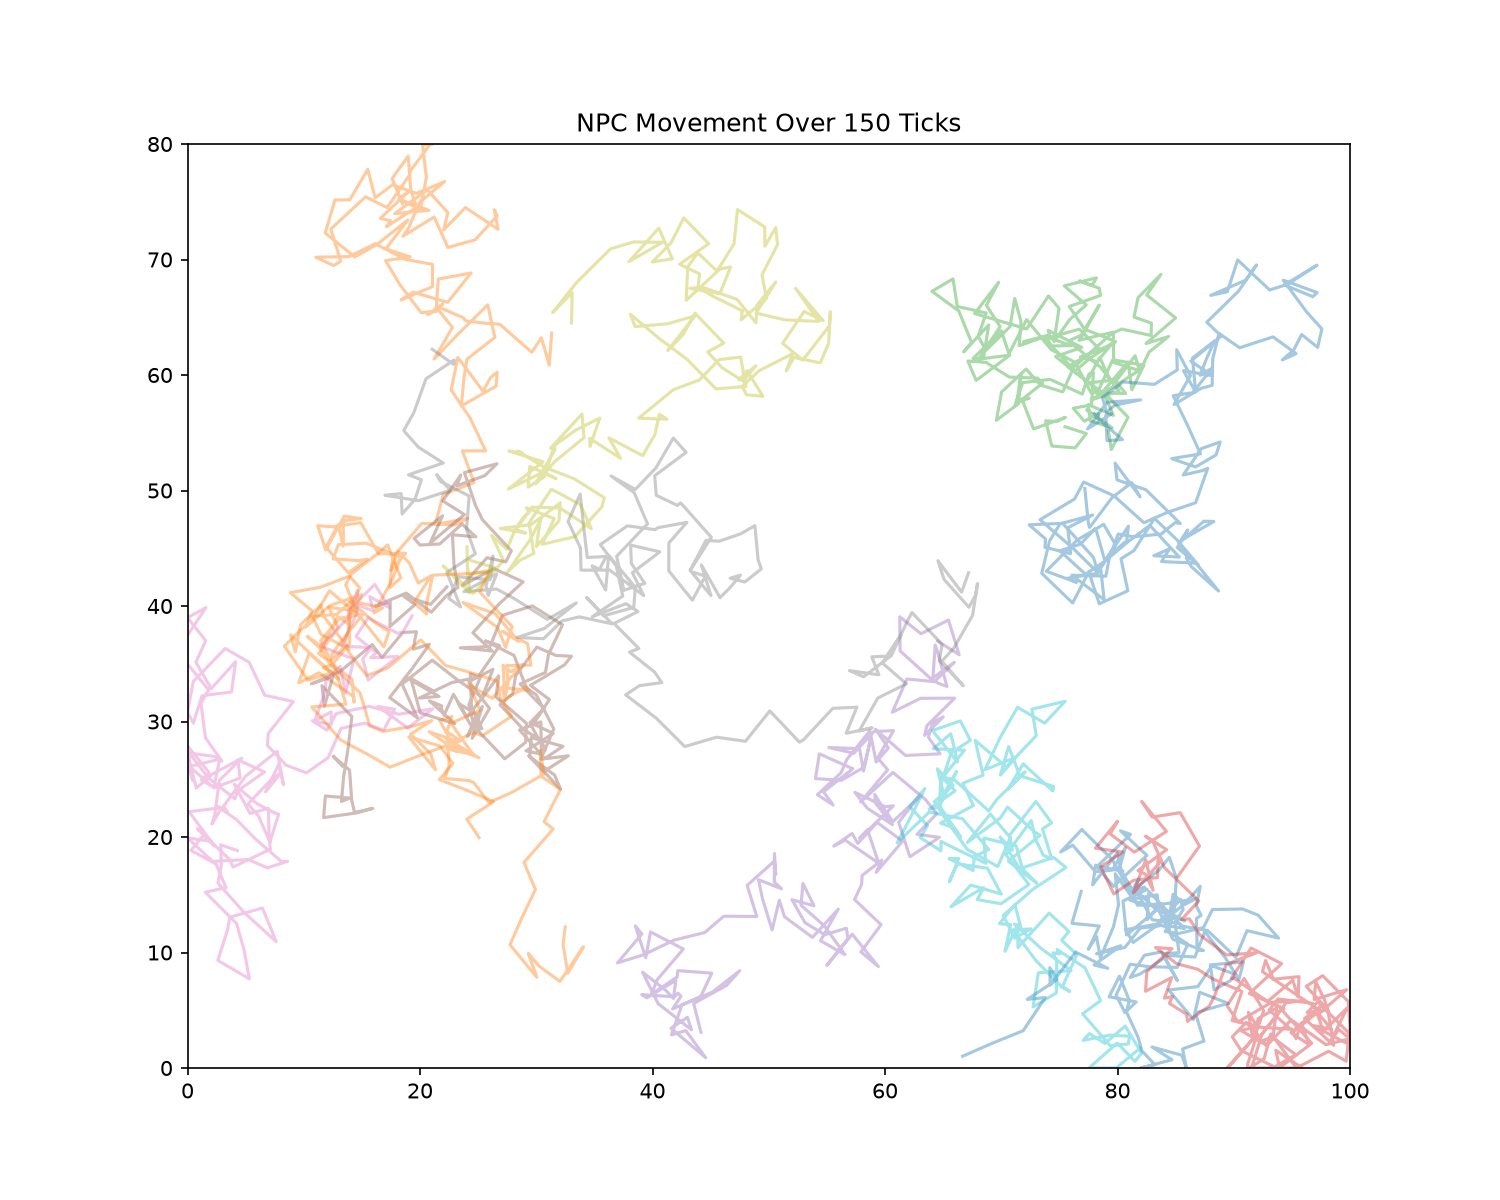
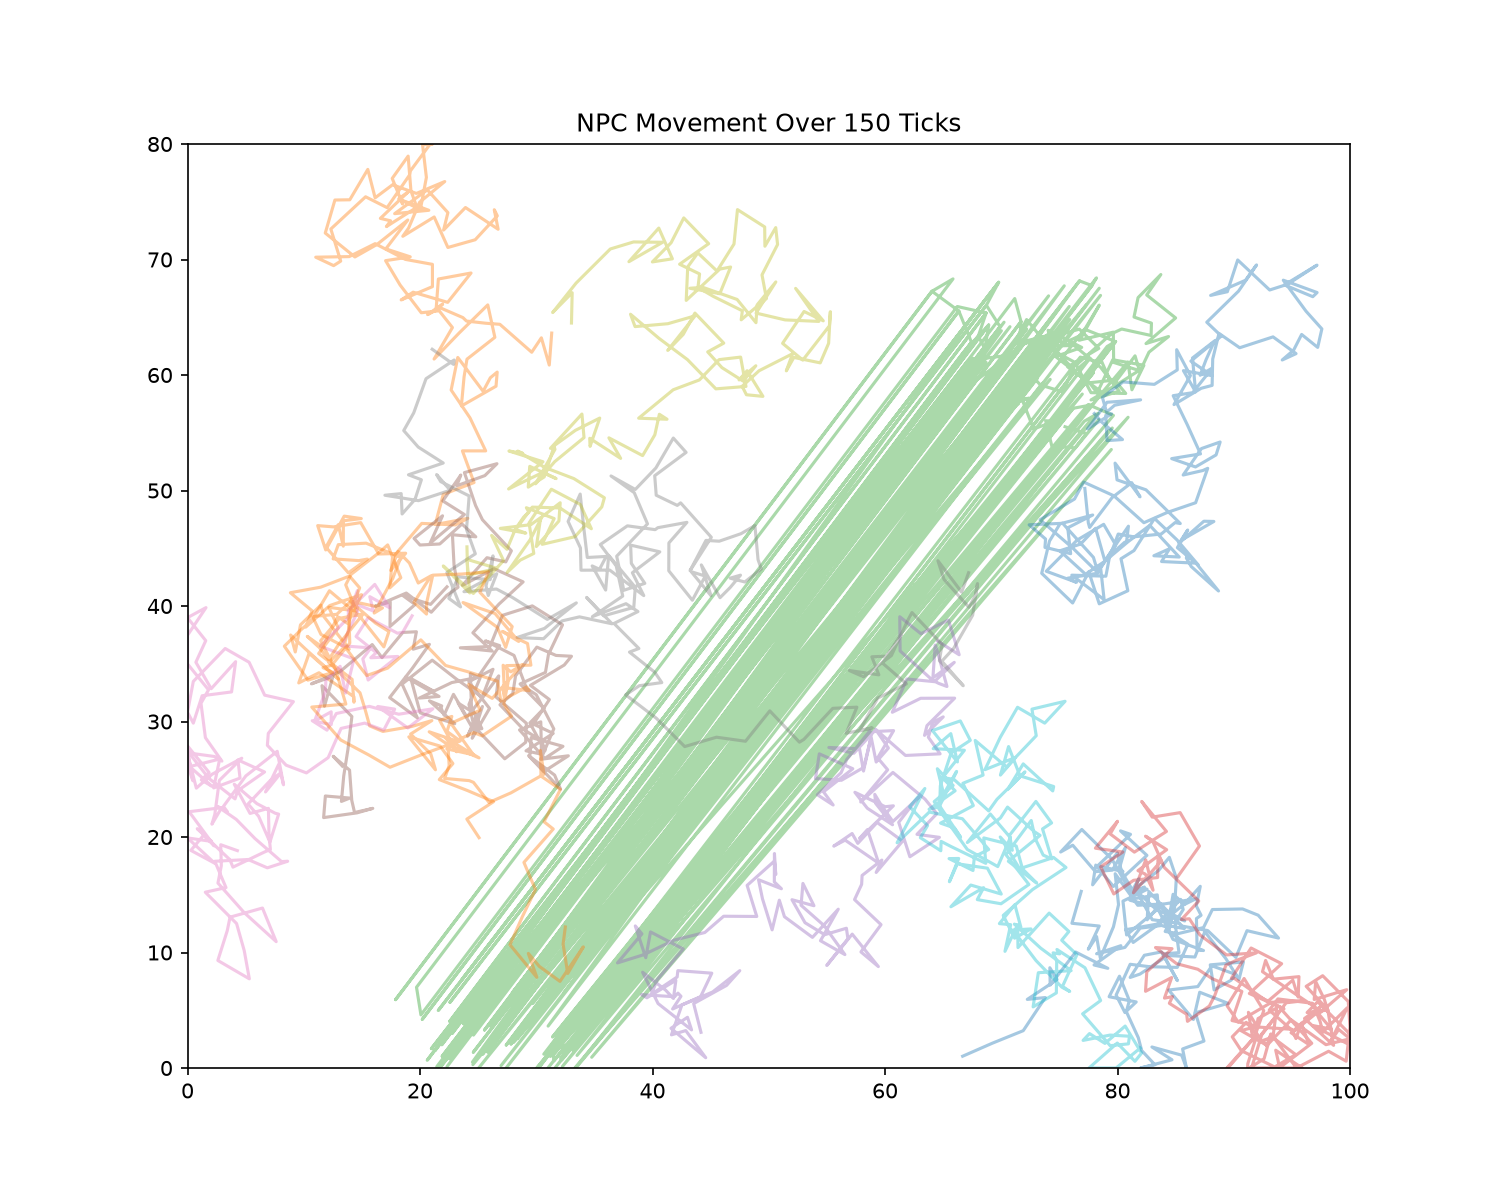
Update: Replaced Plain Random Walk With Four Named Zones

Changed region(s): [[0.276, 0.2158, 0.7667, 0.8942]]

diff --git a/src/models.py b/src/models.py
@@ -1,14 +1,47 @@
 NPC_IDS = [f"NPC_{i:02d}" for i in range(1, 13)]
-ACTIVITIES = ["patrolling", "idle", "trading", "fighting", "fleeing"]
+NPC_NAMES = {
+    "NPC_01": "Aldric", "NPC_02": "Brenna", "NPC_03": "Cedric", "NPC_04": "Dara",
+    "NPC_05": "Elowen", "NPC_06": "Fenn", "NPC_07": "Garrick", "NPC_08": "Hilda",
+    "NPC_09": "Ivor", "NPC_10": "Jora", "NPC_11": "Kael", "NPC_12": "Lyra",
+}
 
-WORLD_X = (0, 100)
-WORLD_Y = (0, 80)
-NUM_TICKS = 150
-ACTIVITY_CHANGE_CHANCE = 0.08
+WORLD_W = 100
+WORLD_H = 80
+
+ACTIVITY_COLORS = {
+    "walking": "#4fc3f7",
+    "trading": "#ffd54f",
+    "idle": "#b0bec5",
+    "fighting": "#ef5350",
+    "patrolling": "#81c784",
+    "fleeing": "#ff9800",
+}
+
+ZONES = [
+    {"name": "Market", "x": 25, "y": 55, "r": 11, "activity": "trading", "color": "#8d6e2f"},
+    {"name": "Tavern", "x": 72, "y": 60, "r": 9, "activity": "idle", "color": "#6d4c41"},
+    {"name": "Barracks", "x": 75, "y": 20, "r": 11, "activity": "fighting", "color": "#7b3f3f"},
+    {"name": "Watchtower", "x": 22, "y": 18, "r": 8, "activity": "patrolling", "color": "#3f6b4a"},
+]
+
+WALK_SPEED = 1.4
+FLEE_SPEED = 2.8
+DWELL_RANGE = (12, 35)
+FLEE_CHANCE = 0.004
+
+MAX_TICKS = 400
+TICK_SECONDS = 0.25
 RANDOM_SEED = 42
 
-EARTH_RADIUS_KM = 6378.1
-DEFAULT_QUERY_RADIUS_KM = 2000
-
-ANOMALY_TICK = 75
 ANOMALY_NPC = "NPC_03"
+ANOMALY_TICK = 75
+
+# Projection of the game world onto a small patch of the globe, so the
+# database geospatial features measure real metres instead of degrees.
+ORIGIN_LON = 73.10
+ORIGIN_LAT = 19.00
+METERS_PER_UNIT = 50
+
+# Anomaly rule: no NPC can plausibly move farther than this in a single tick
+# (fleeing is the fastest legitimate movement, plus a little noise headroom).
+MAX_PLAUSIBLE_STEP = 3.5
